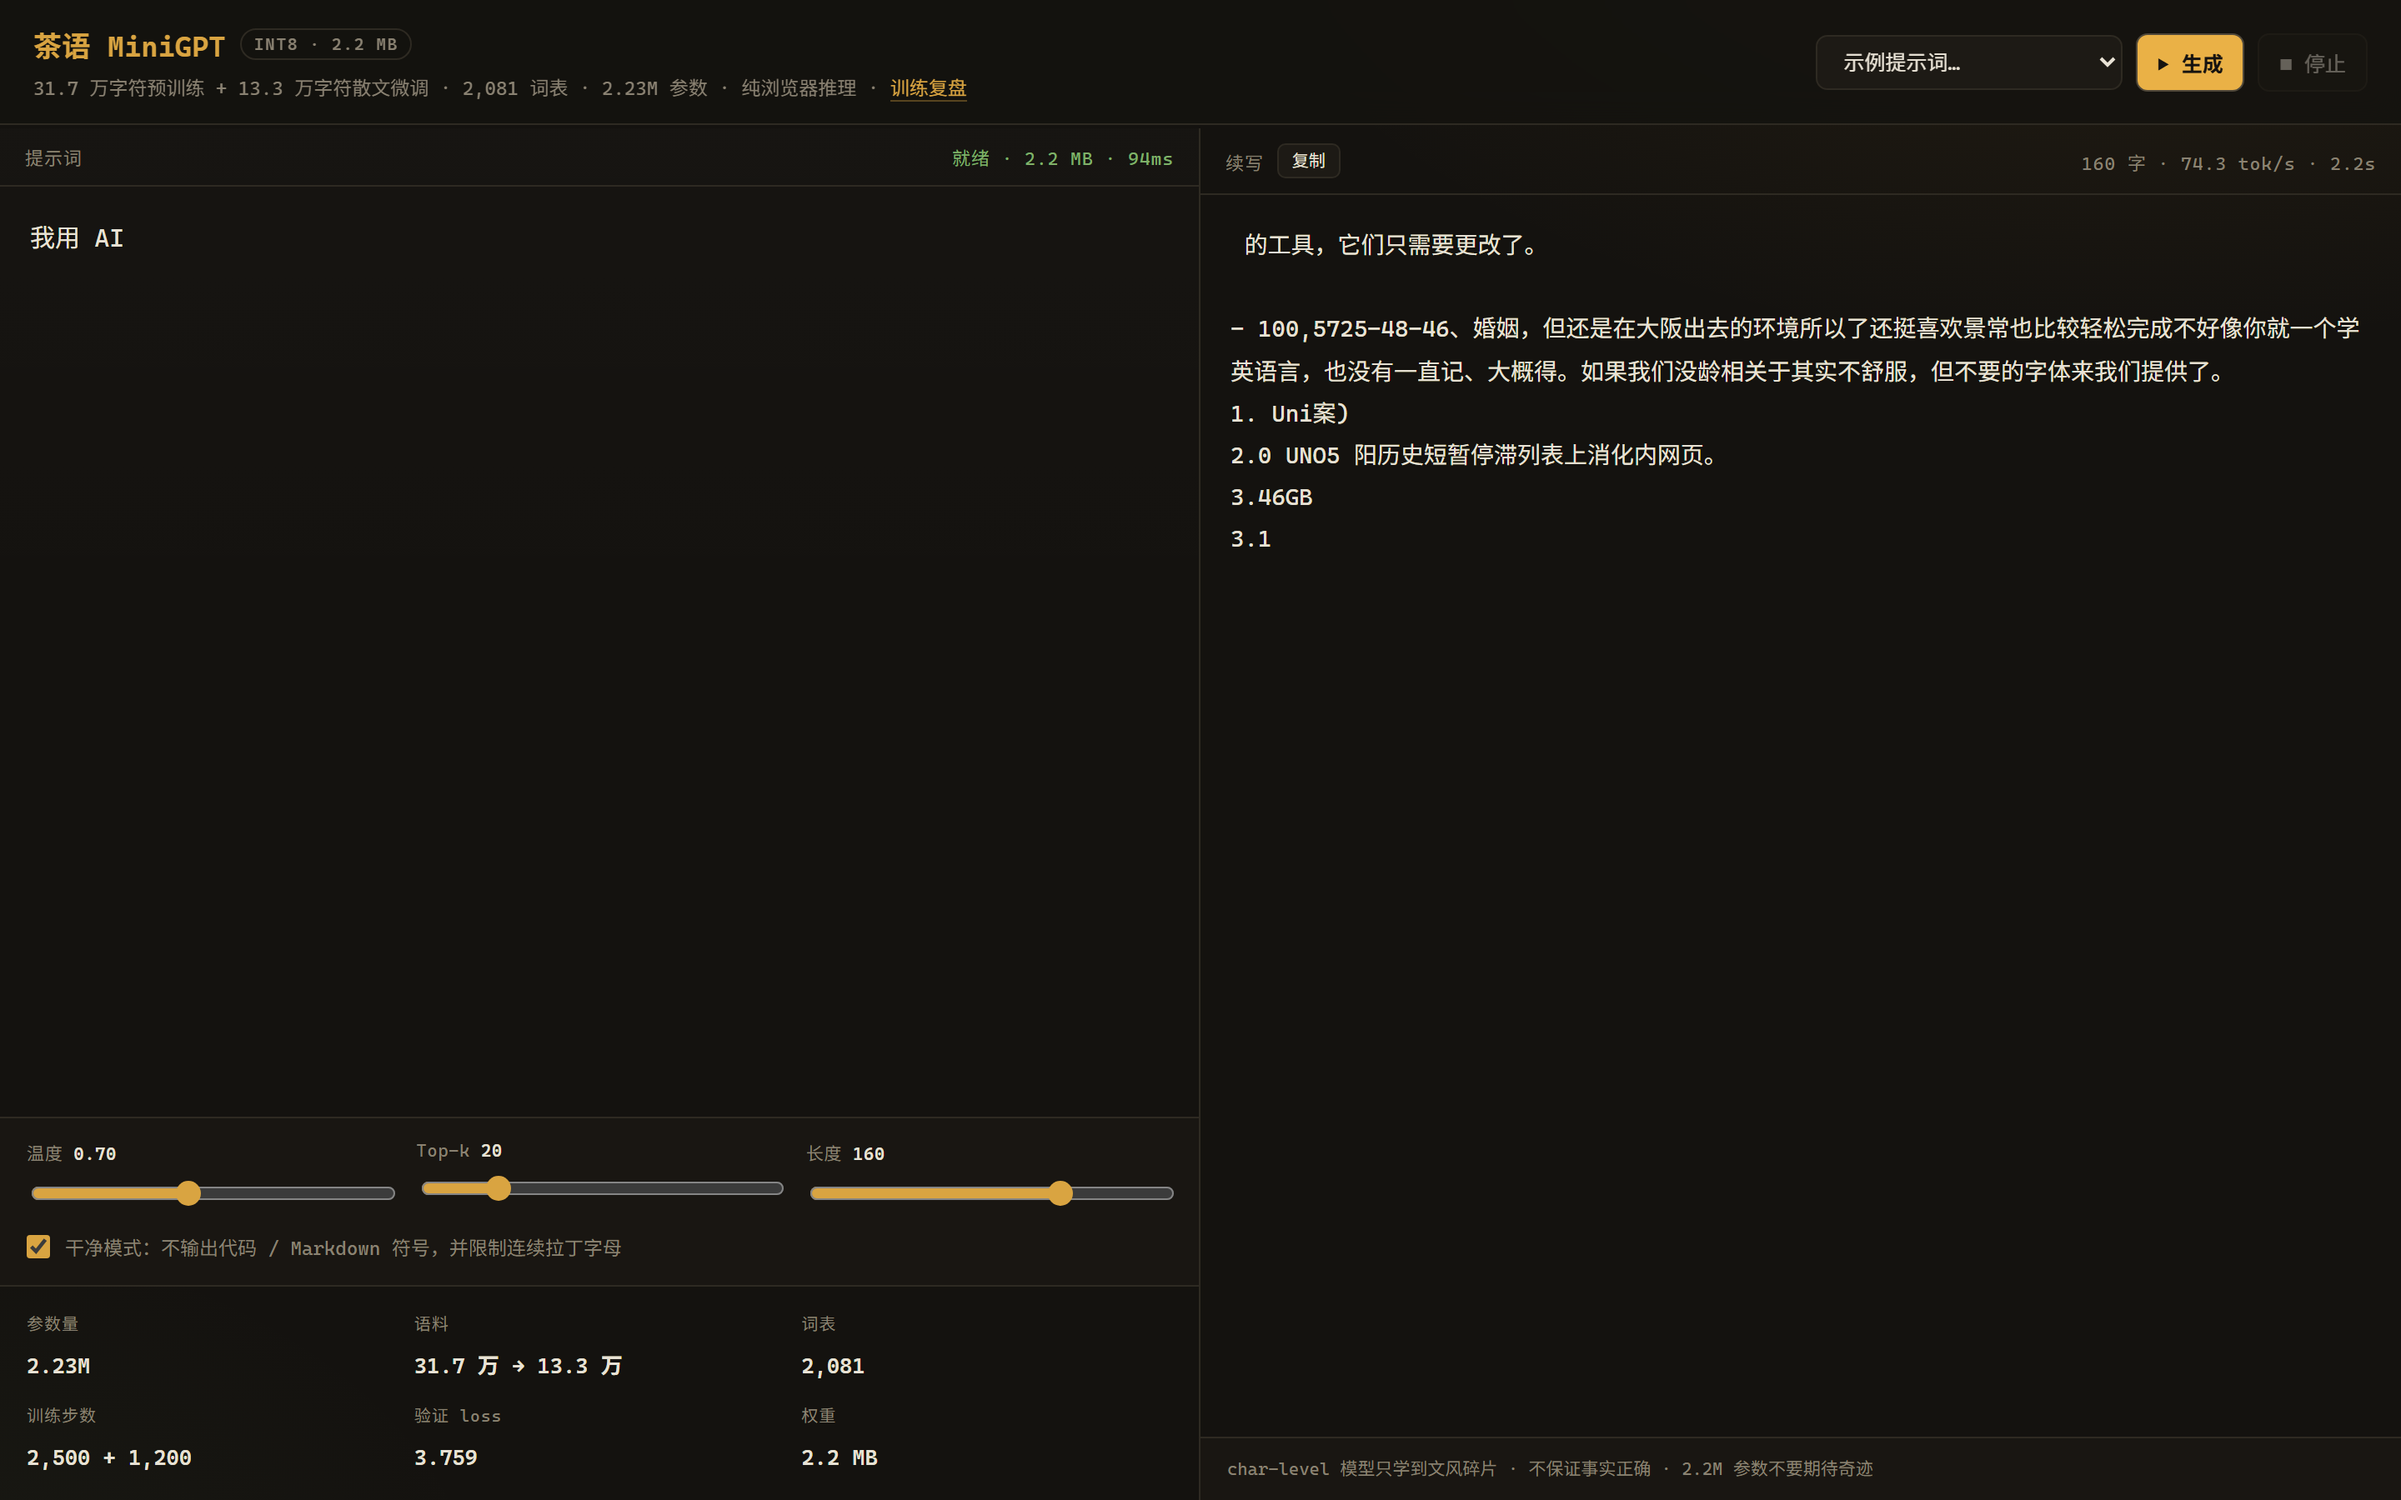
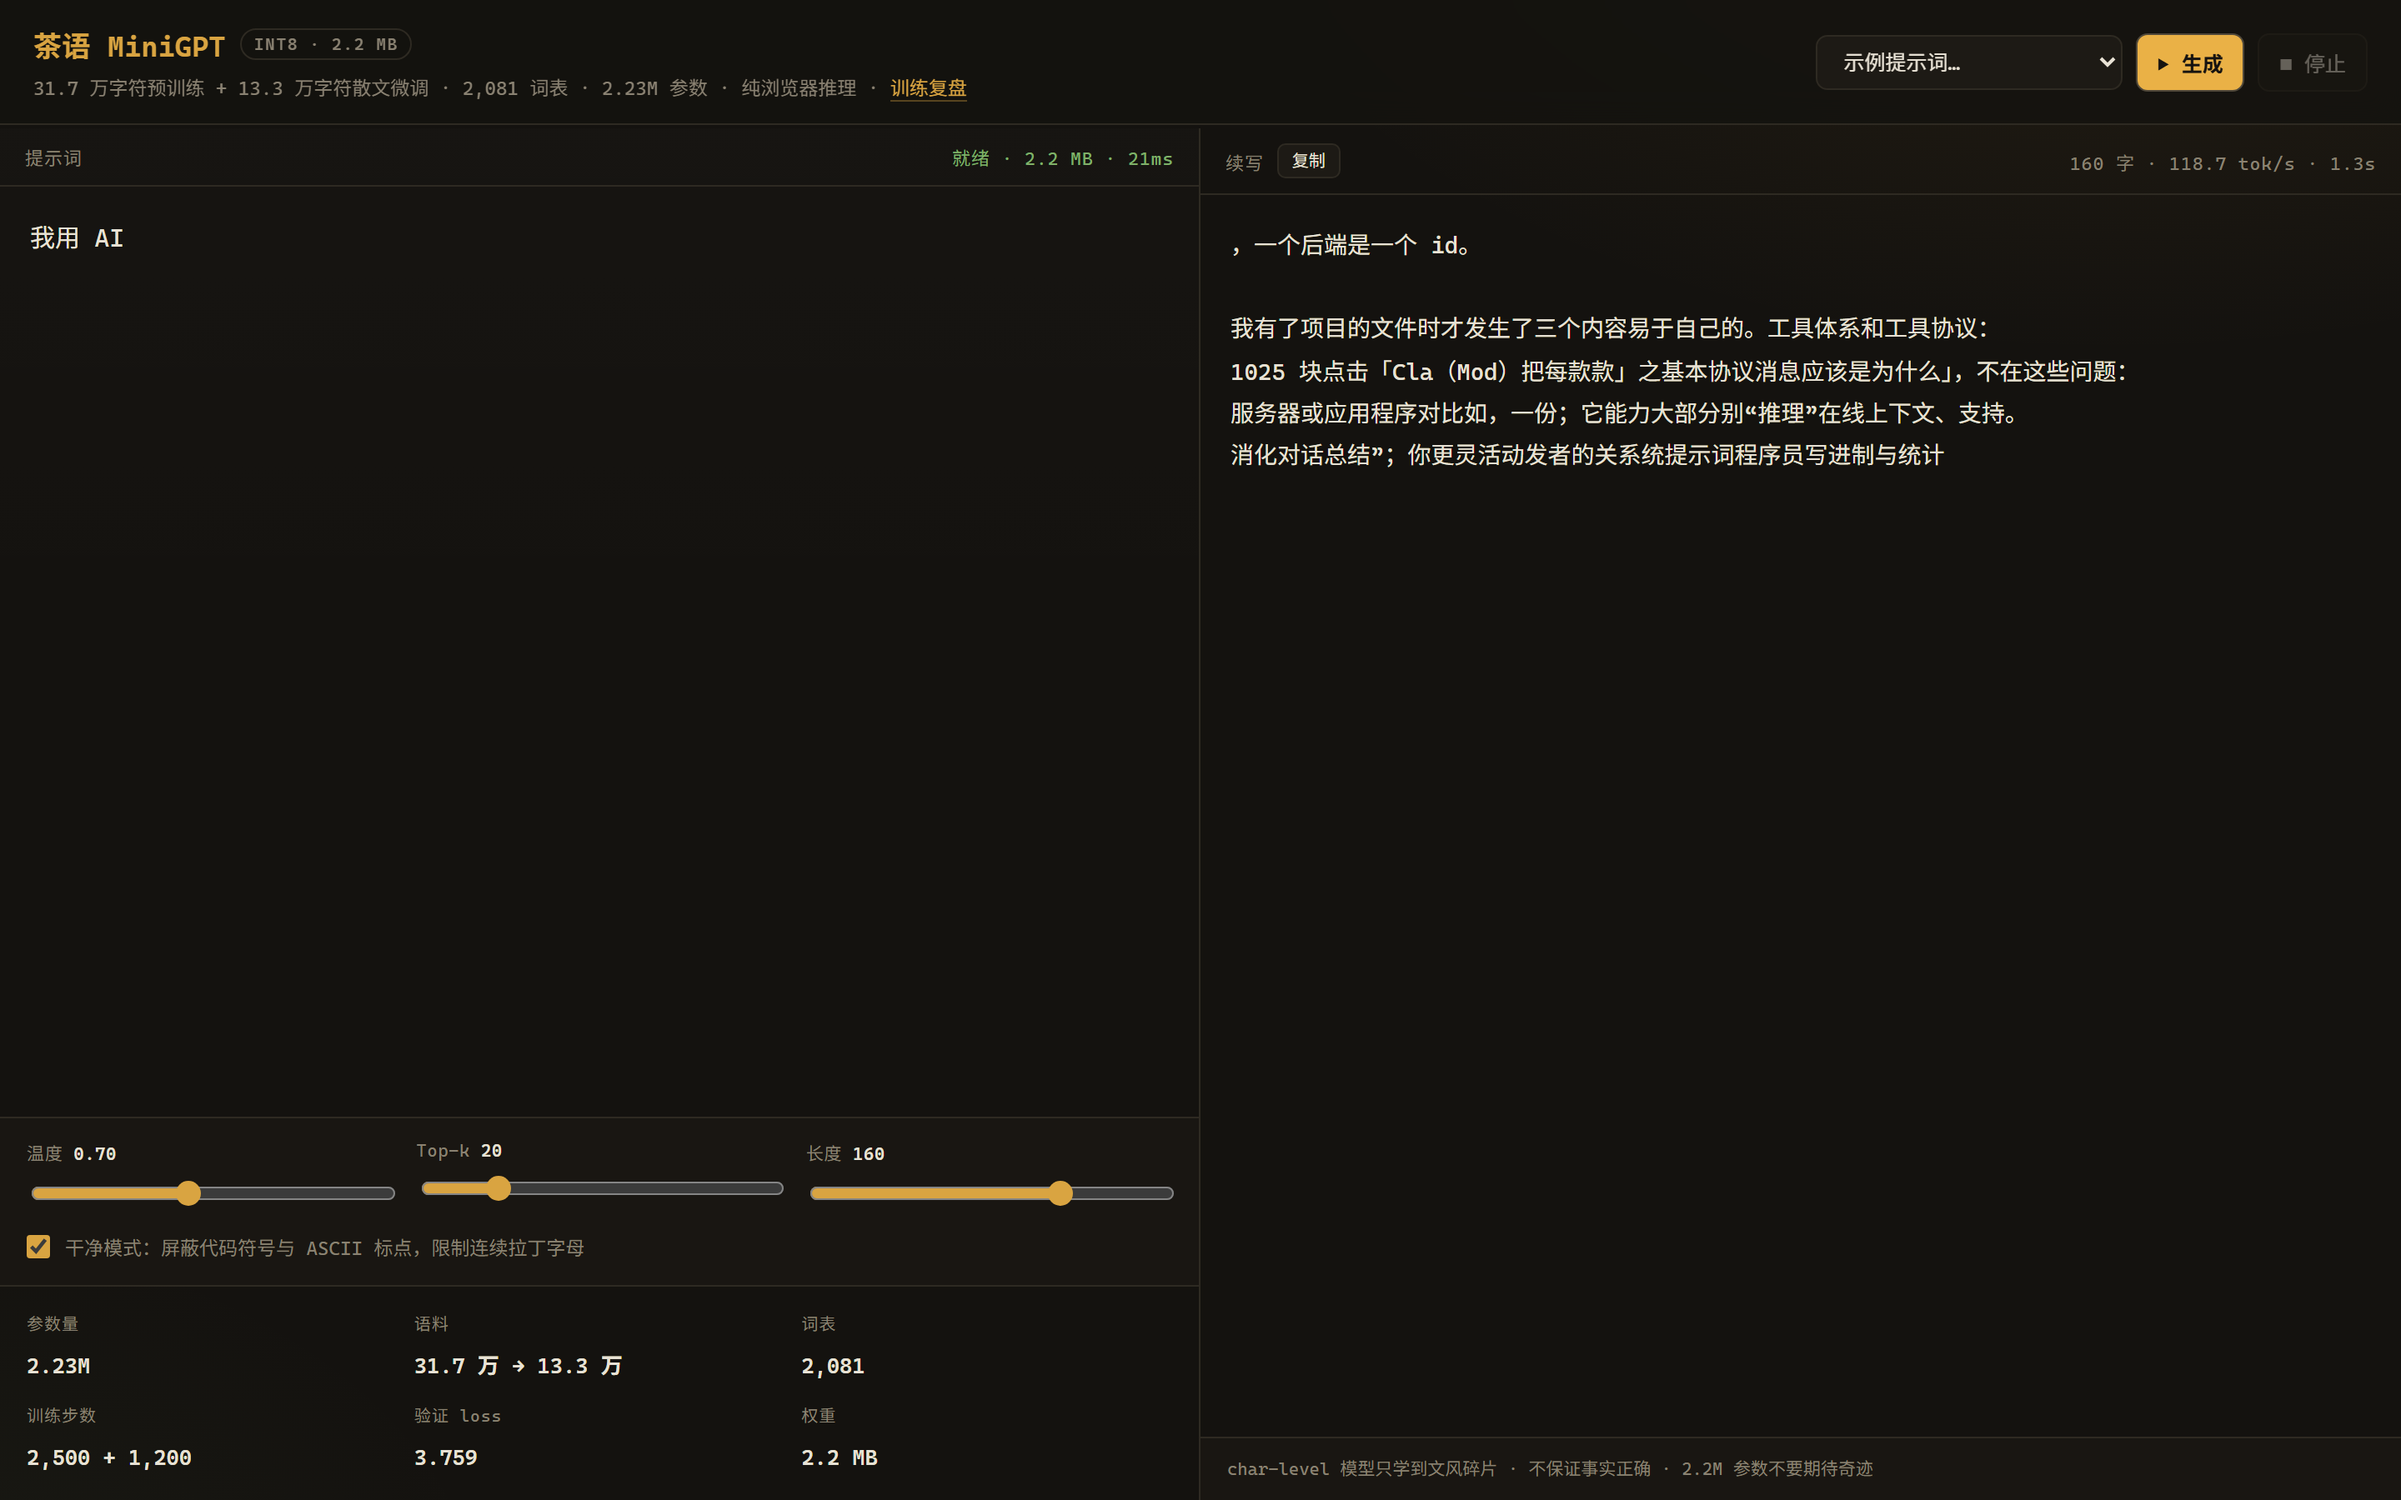
fix(cha-llm): 干净模式补禁 ASCII 标点，续写中文占比 65.7% → 78.6%
线上复验发现 v1 遮罩漏了括号/点号/加号，输出仍有 `out()`、`3.2`、`Cl+cal`
这类碎片；同时原来的度量口径也漏数了 ASCII 标点，消融表被低估。补上 11 个
字符并统一口径重测，附浏览器端 A/B 与新的 demo 截图。

Changed region(s): [[0.5, 0.1556, 0.9375, 0.3422], [0.0625, 0.8089, 0.25, 0.84], [0.875, 0.0933, 0.9062, 0.1244]]

diff --git a/public/cha-llm/worker.js b/public/cha-llm/worker.js
@@ -6,8 +6,9 @@ let cancel = false;
 let banIds = [];
 let letterIds = [];
 
-// 干净模式：小模型很容易吐出 Markdown/URL 碎片和伪拉丁串，采样层直接压掉
-const BAN_CHARS = "#*_`{}[]<>|\\=;~^$@\"'/";
+// 干净模式：小模型很容易吐出 Markdown/URL 碎片和伪拉丁串，采样层直接压掉。
+// 中文散文用的是全角标点，所以 ASCII 标点（. , : ; ! ? ( ) / \ - + = % & # * _ 等）一律禁止。
+const BAN_CHARS = "#*_`{}[]<>|\\=;~^$@\"'/.:,!?()+-&%";
 const isLetter = (ch) => /[A-Za-z]/.test(ch);
 
 function prepareConstraints() {

diff --git a/public/cha-llm/index.html b/public/cha-llm/index.html
@@ -58,7 +58,7 @@
       </label>
       <label class="field check">
         <input id="clean" type="checkbox" checked />
-        <span>干净模式：不输出代码 / Markdown 符号，并限制连续拉丁字母</span>
+        <span>干净模式：屏蔽代码符号与 ASCII 标点，限制连续拉丁字母</span>
       </label>
     </div>
     <div class="facts" id="facts">
